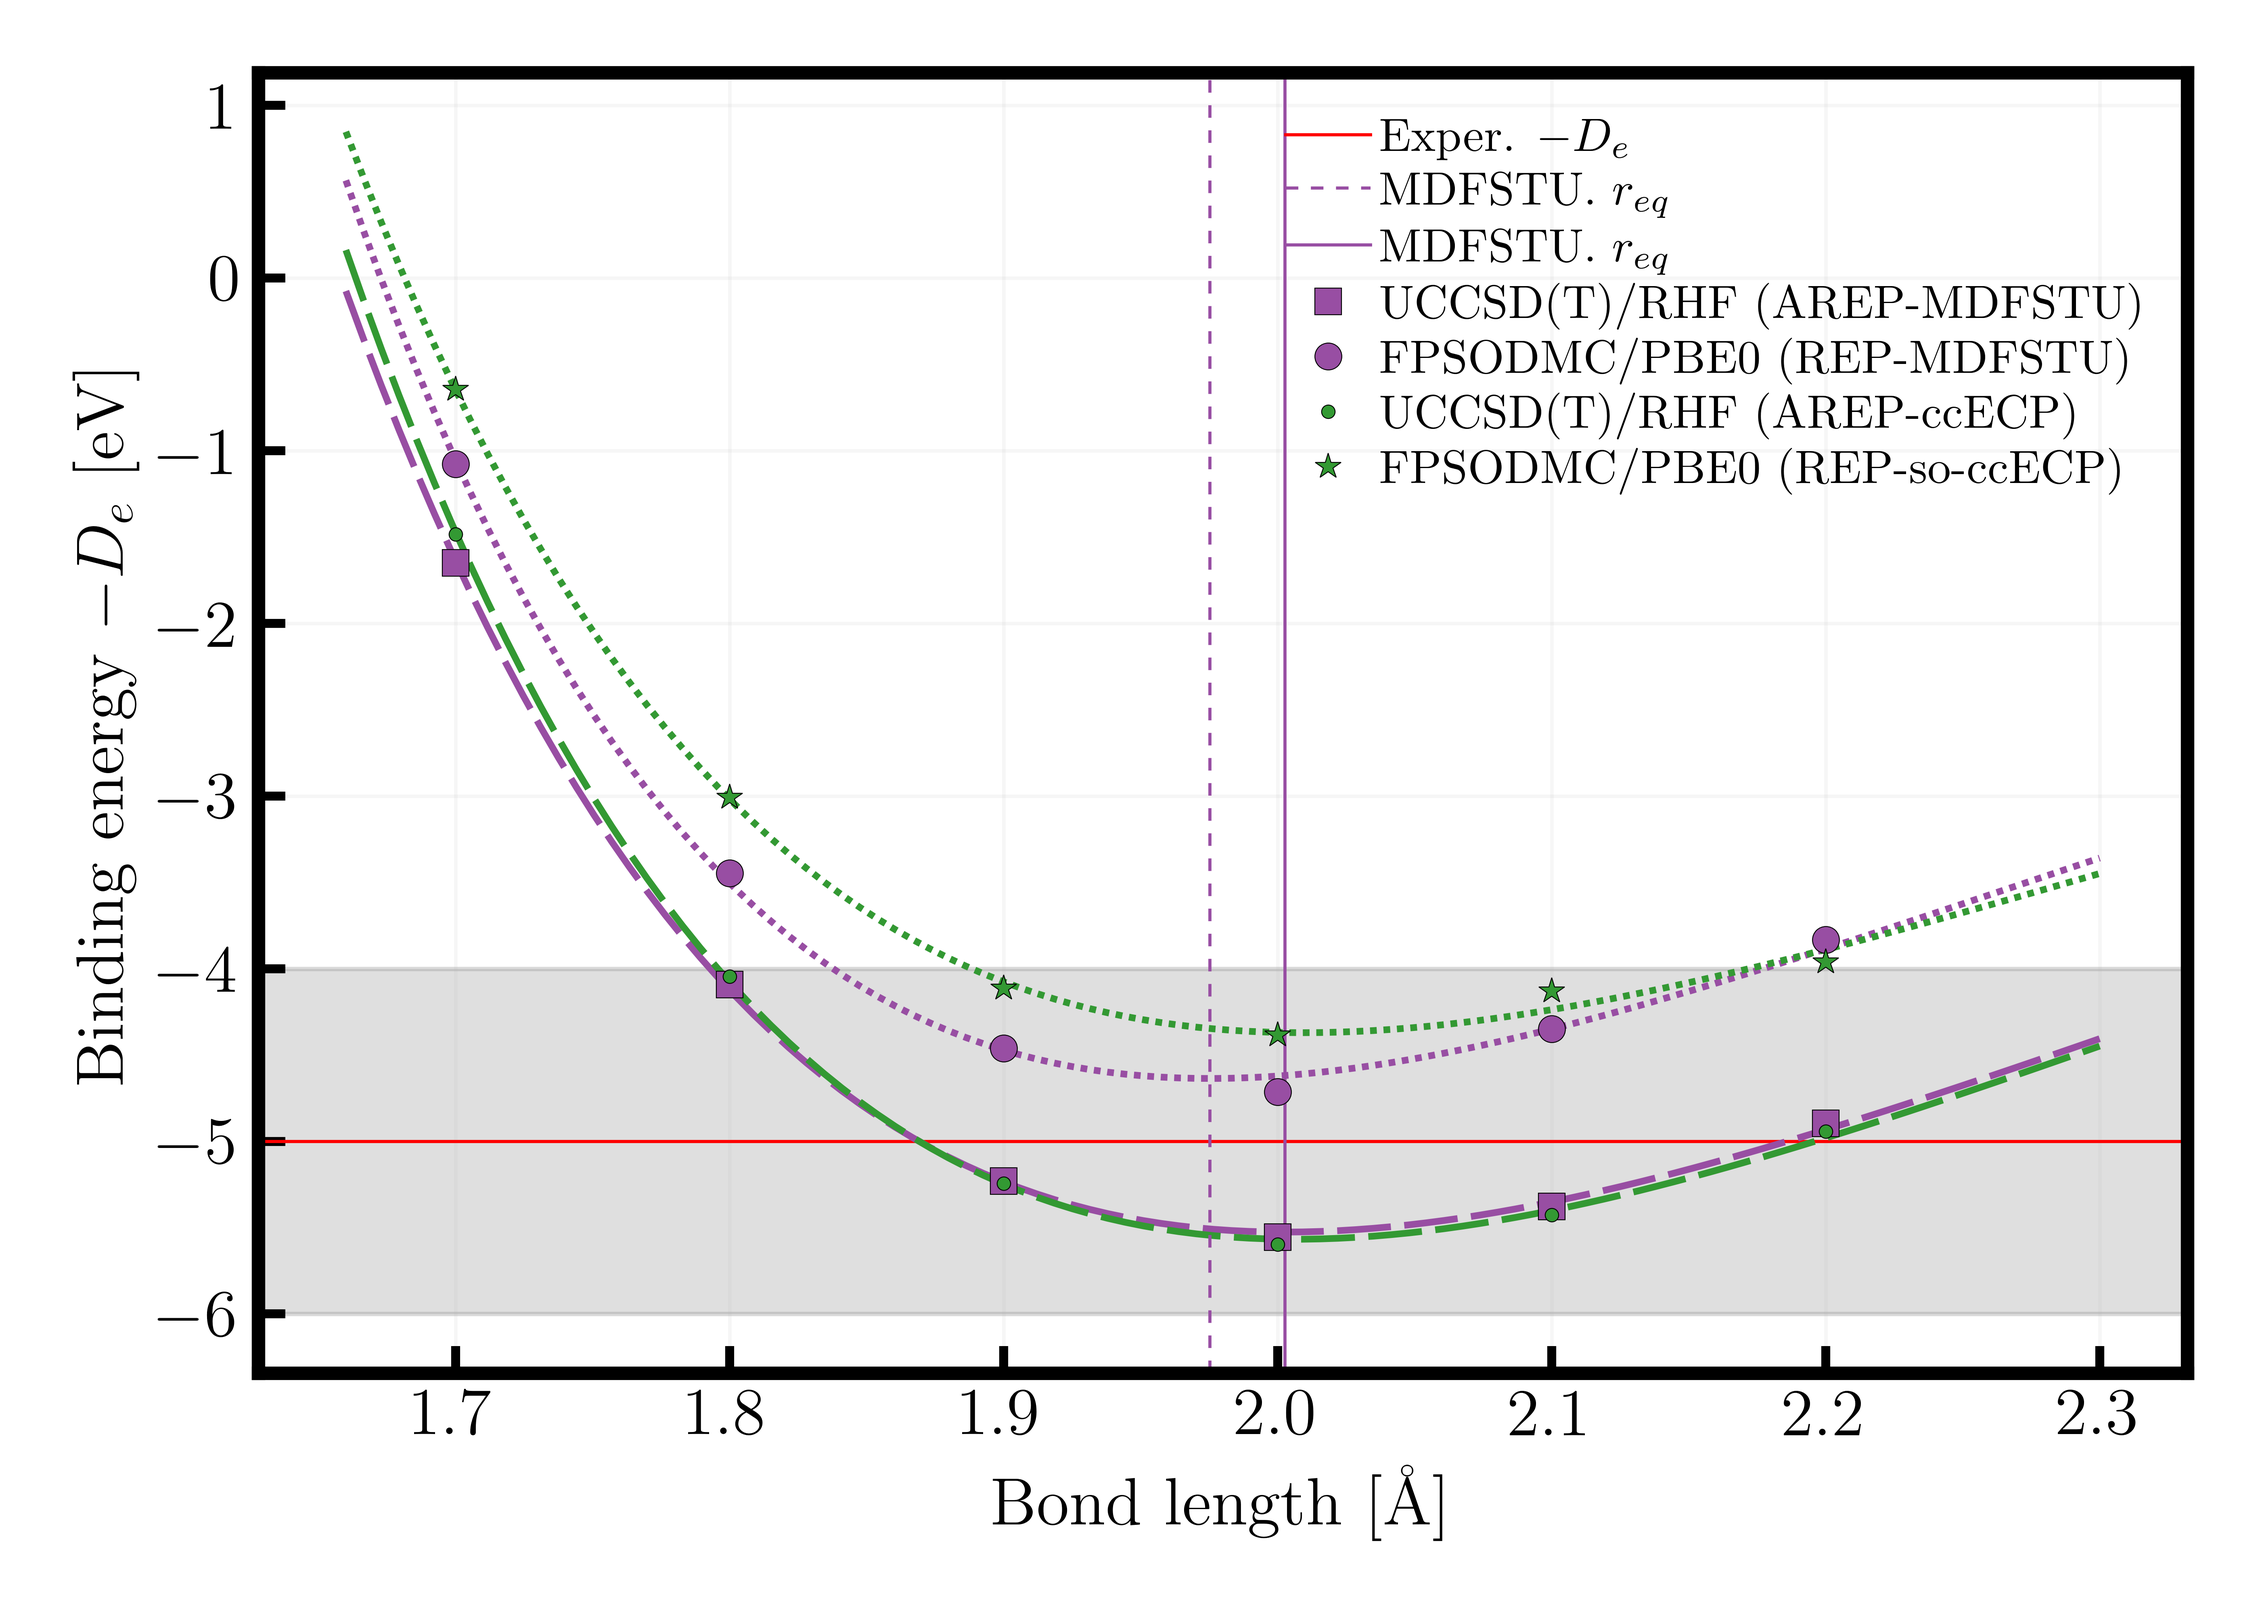
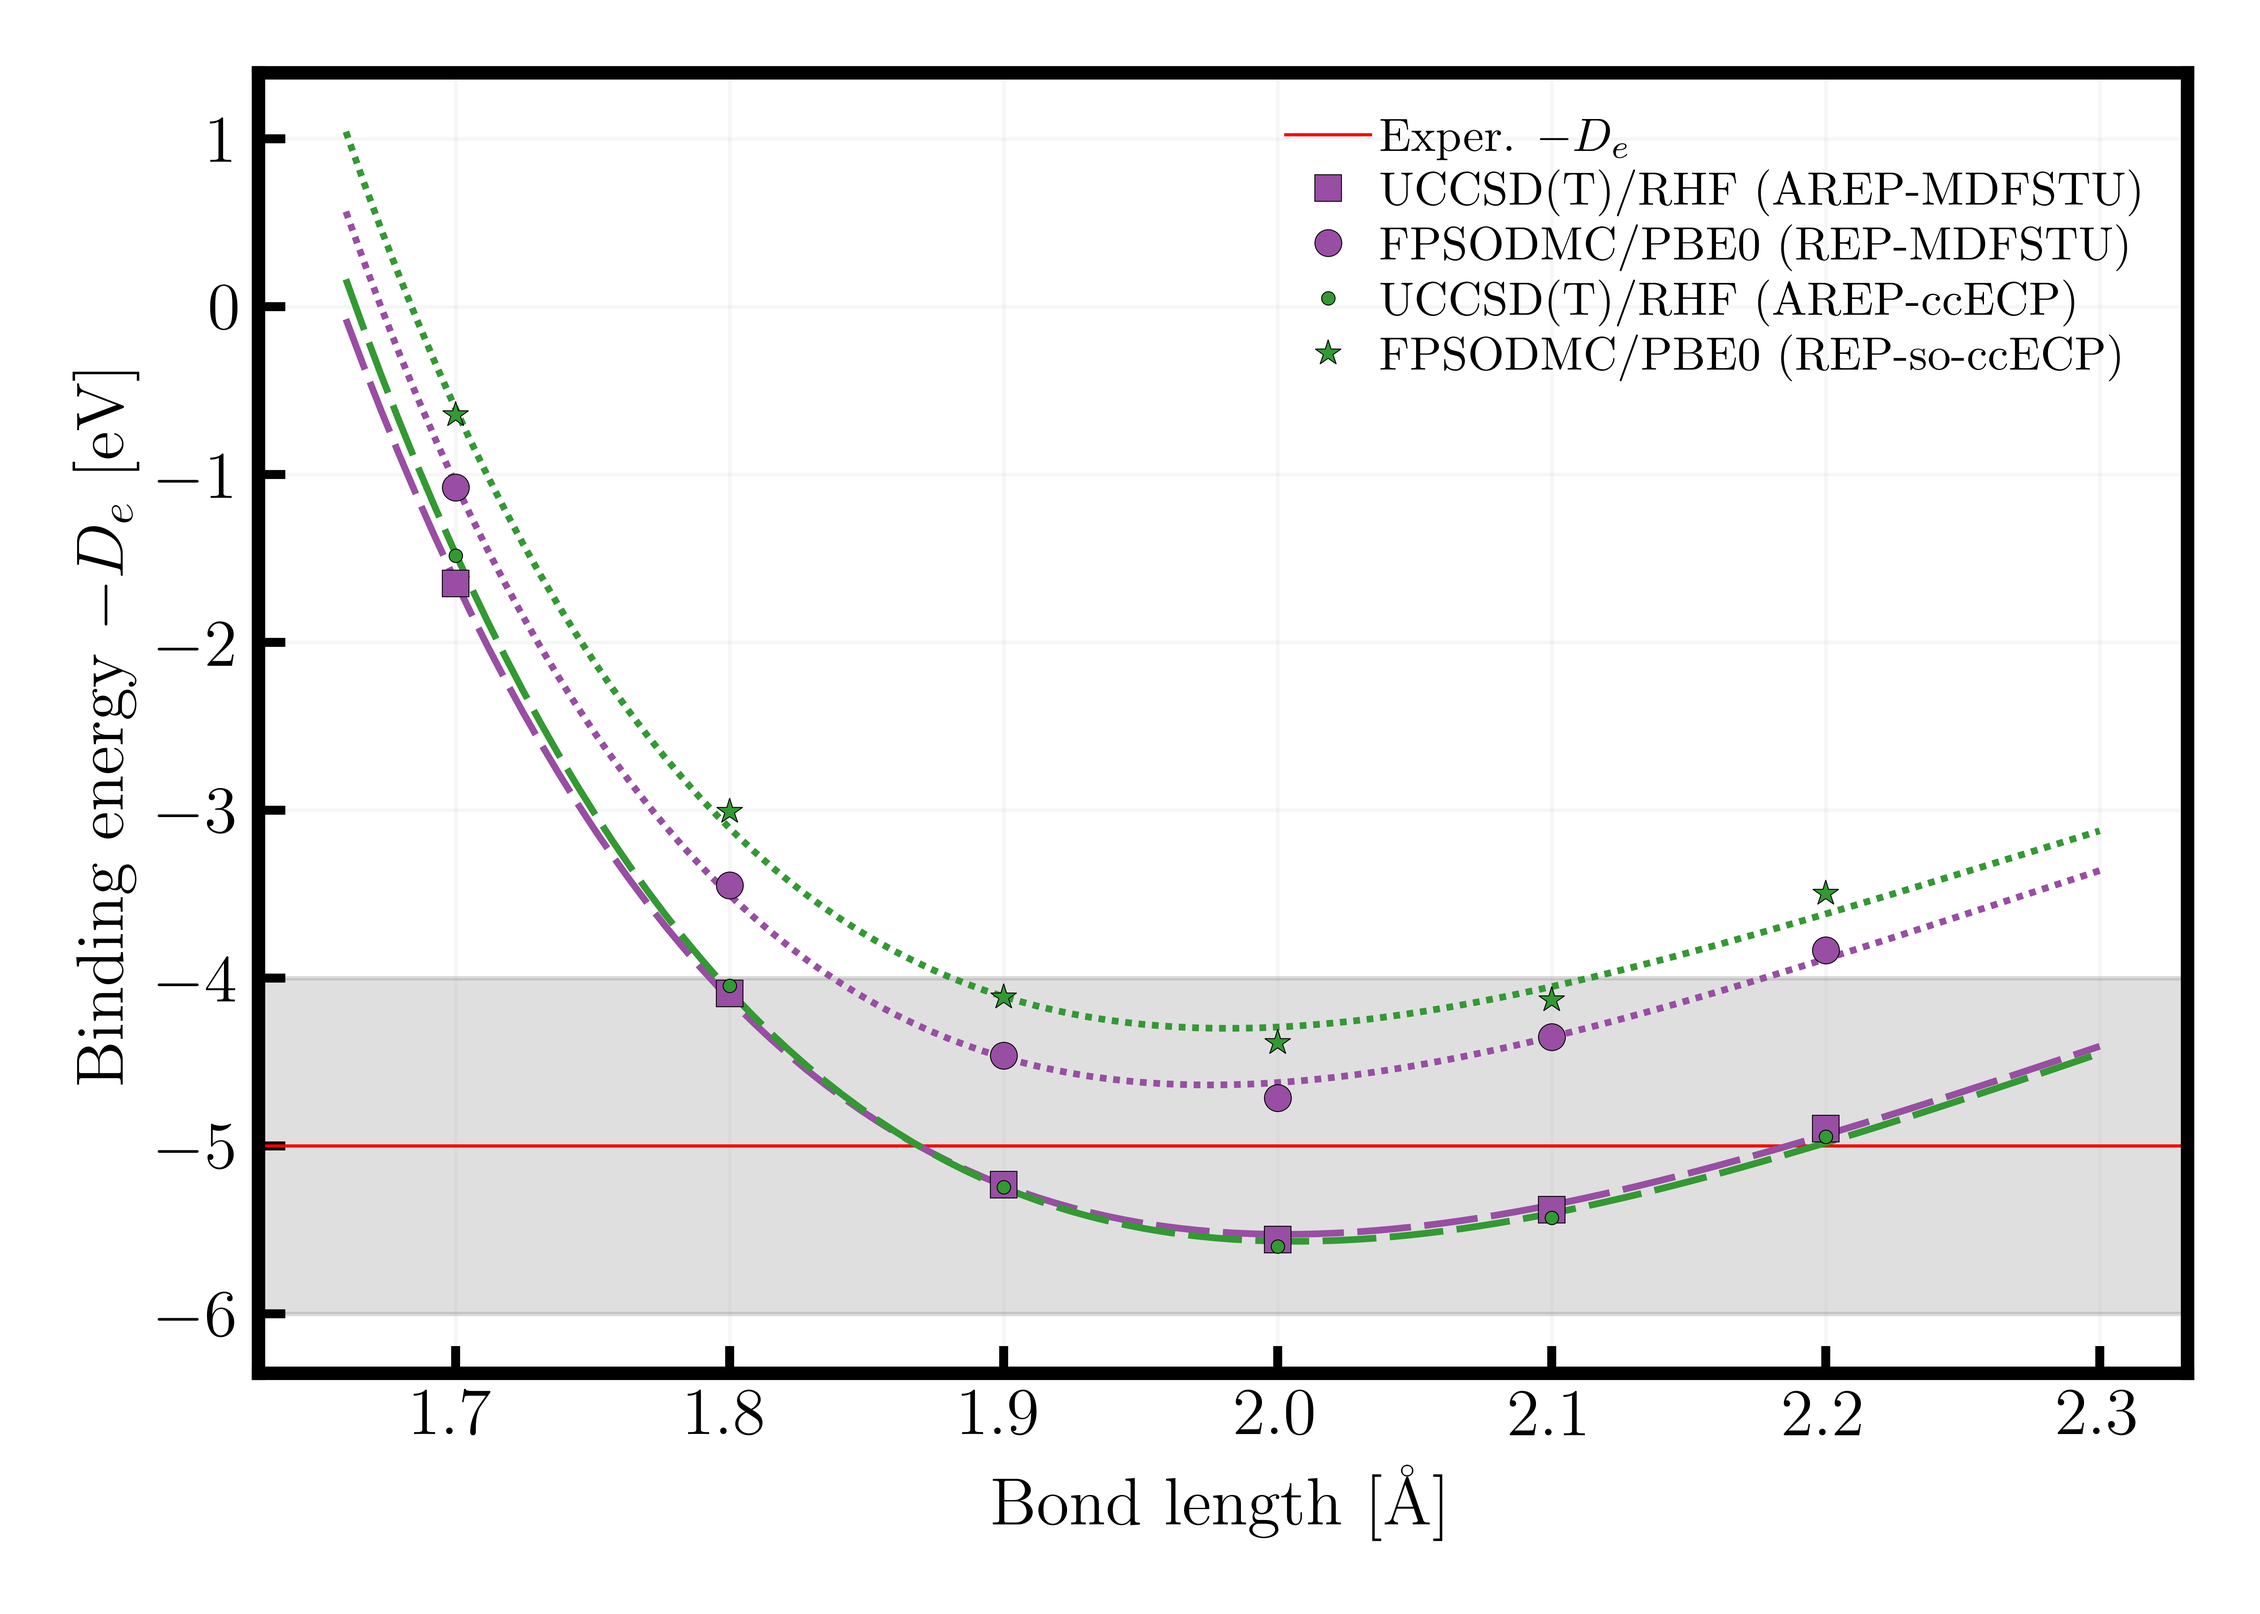
update W2 plot

diff --git a/W/sorep/w2/compare_pbe0_W2.py b/W/sorep/w2/compare_pbe0_W2.py
@@ -220,9 +220,9 @@ for column in df_binding:
                 y=morse(x, *popt_m)
                 ax.plot(x, y*toev, **styles[column+'_fit'])
                 
-ax.axvline(stu_dmc_bind_geo, color='#984ea3', linestyle='--', linewidth=0.7, dashes=(4,4), label='MDFSTU. $r_{eq}$')
+#ax.axvline(stu_dmc_bind_geo, color='#984ea3', linestyle='--', linewidth=0.7, dashes=(4,4), label='MDFSTU. $r_{eq}$')
 #ax.axvline(ccecp_dmc_bind_geo, color='#339933', linestyle='--', linewidth=0.7, dashes=(4,4), label='so-ccECP. $r_{eq}$')
-ax.axvline(stu_cc_bind_geo, color='#984ea3', linestyle='-', linewidth=0.7, label='MDFSTU. $r_{eq}$')
+#ax.axvline(stu_cc_bind_geo, color='#984ea3', linestyle='-', linewidth=0.7, label='MDFSTU. $r_{eq}$')
 #ax.axvline(ccecp_cc_bind_geo, color='#339933', linestyle='-', linewidth=0.7, label='so-ccECP. $r_{eq}$')
 #ax.legend(loc='best', prop={'size': 12})
 ax.legend(loc='upper right', prop={'size': 10.5})
